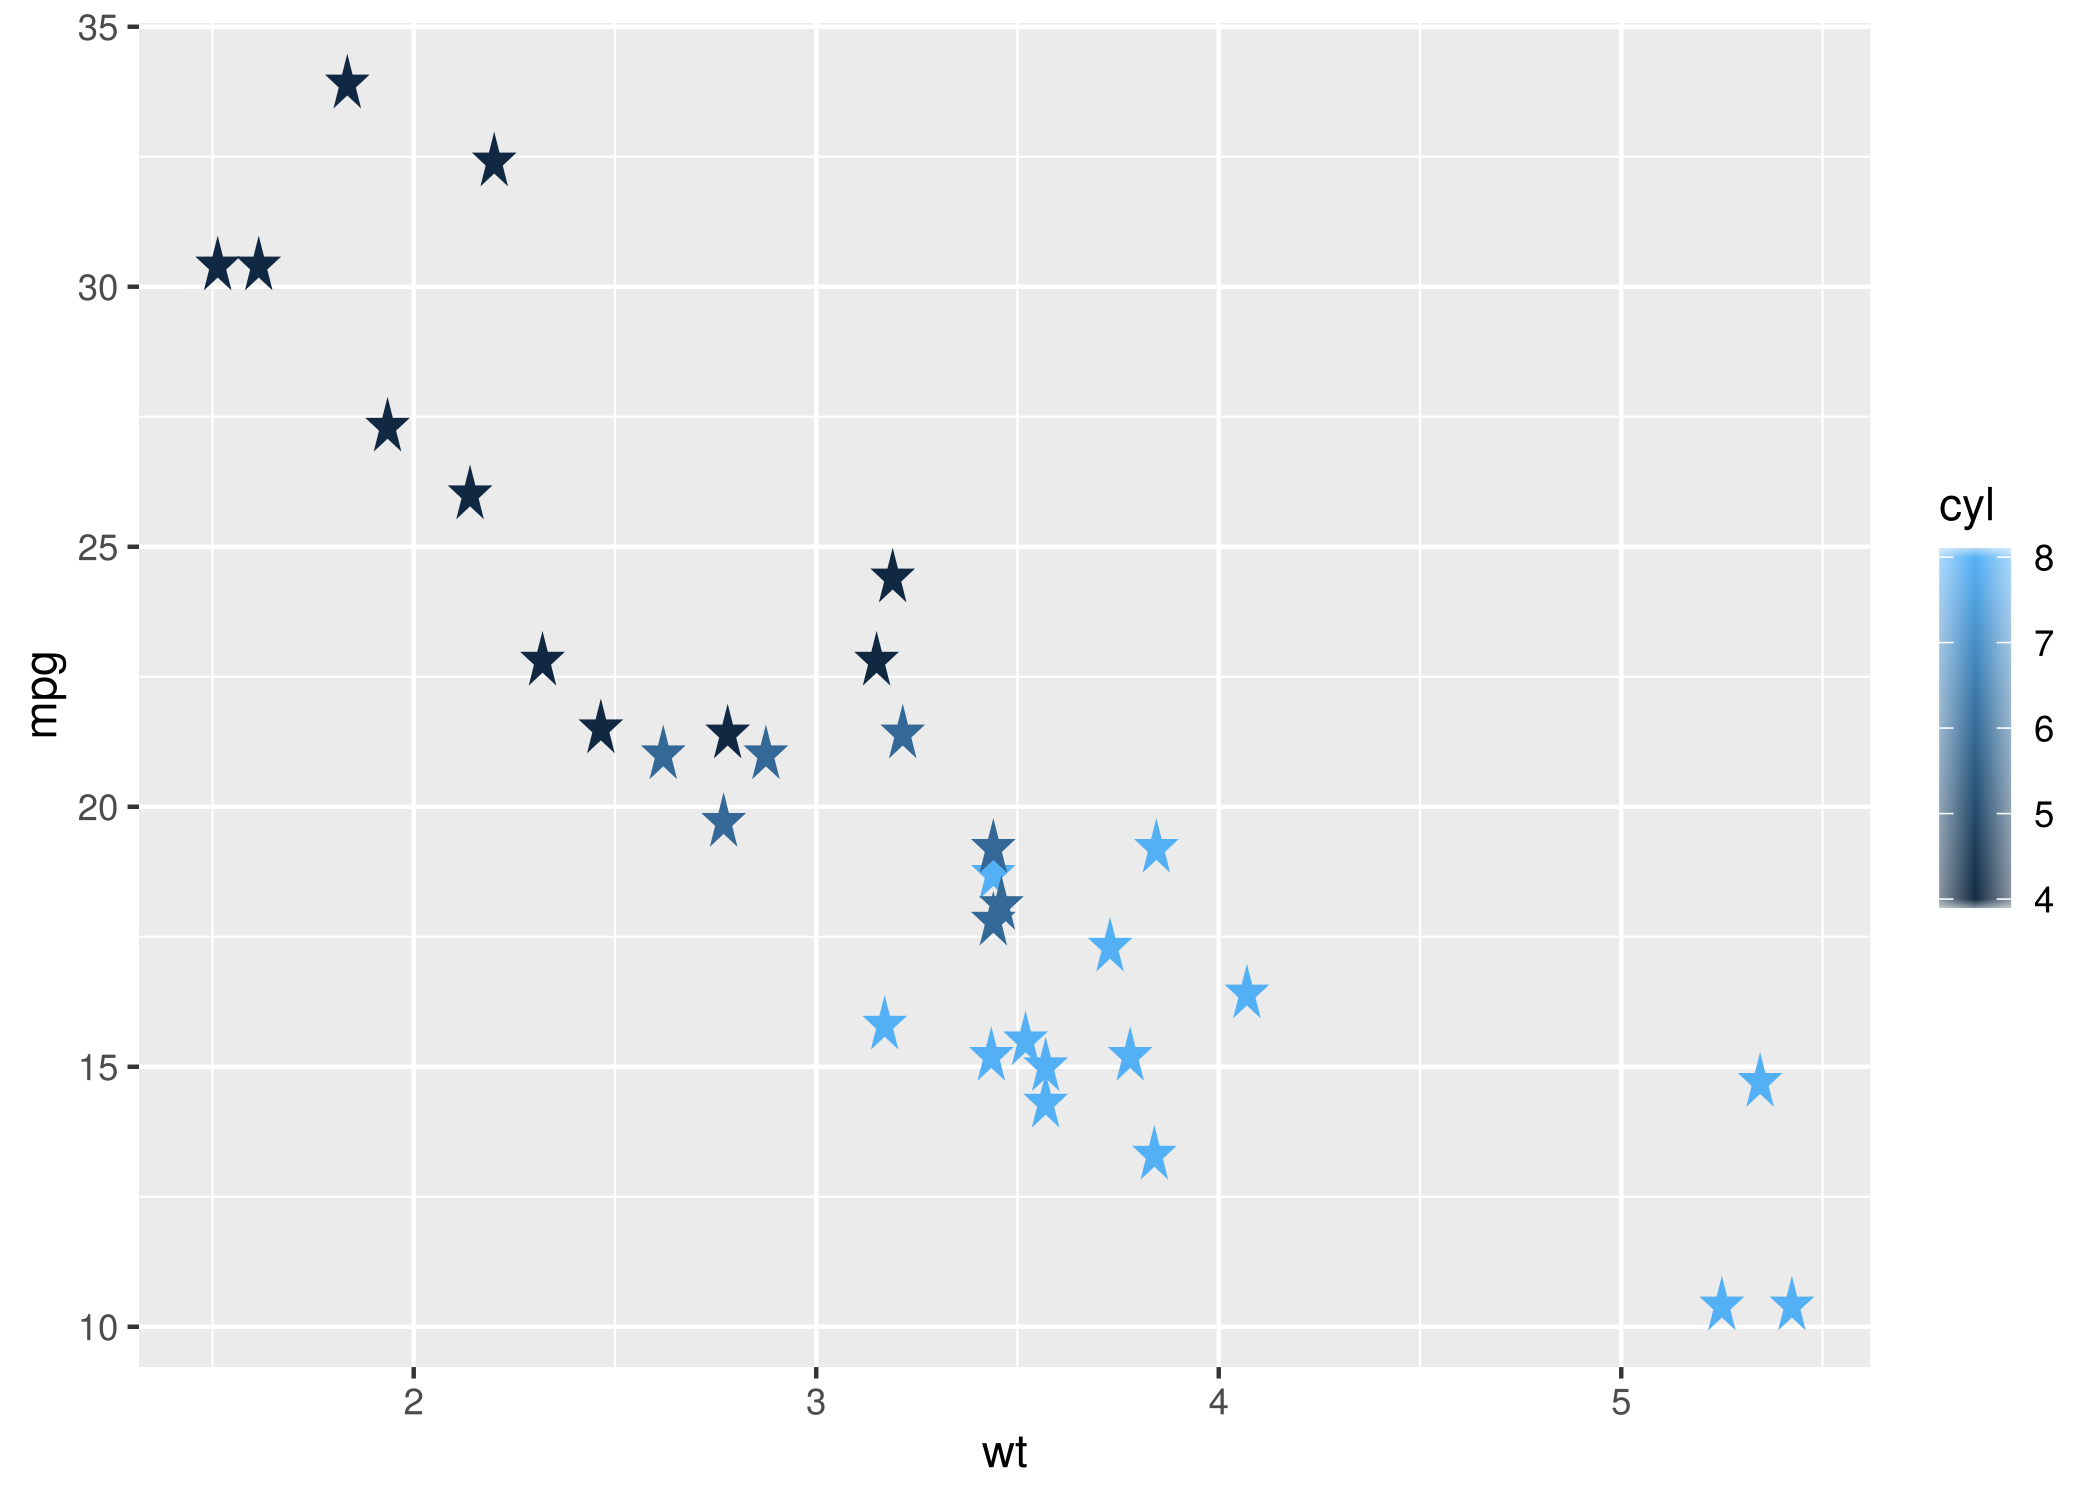
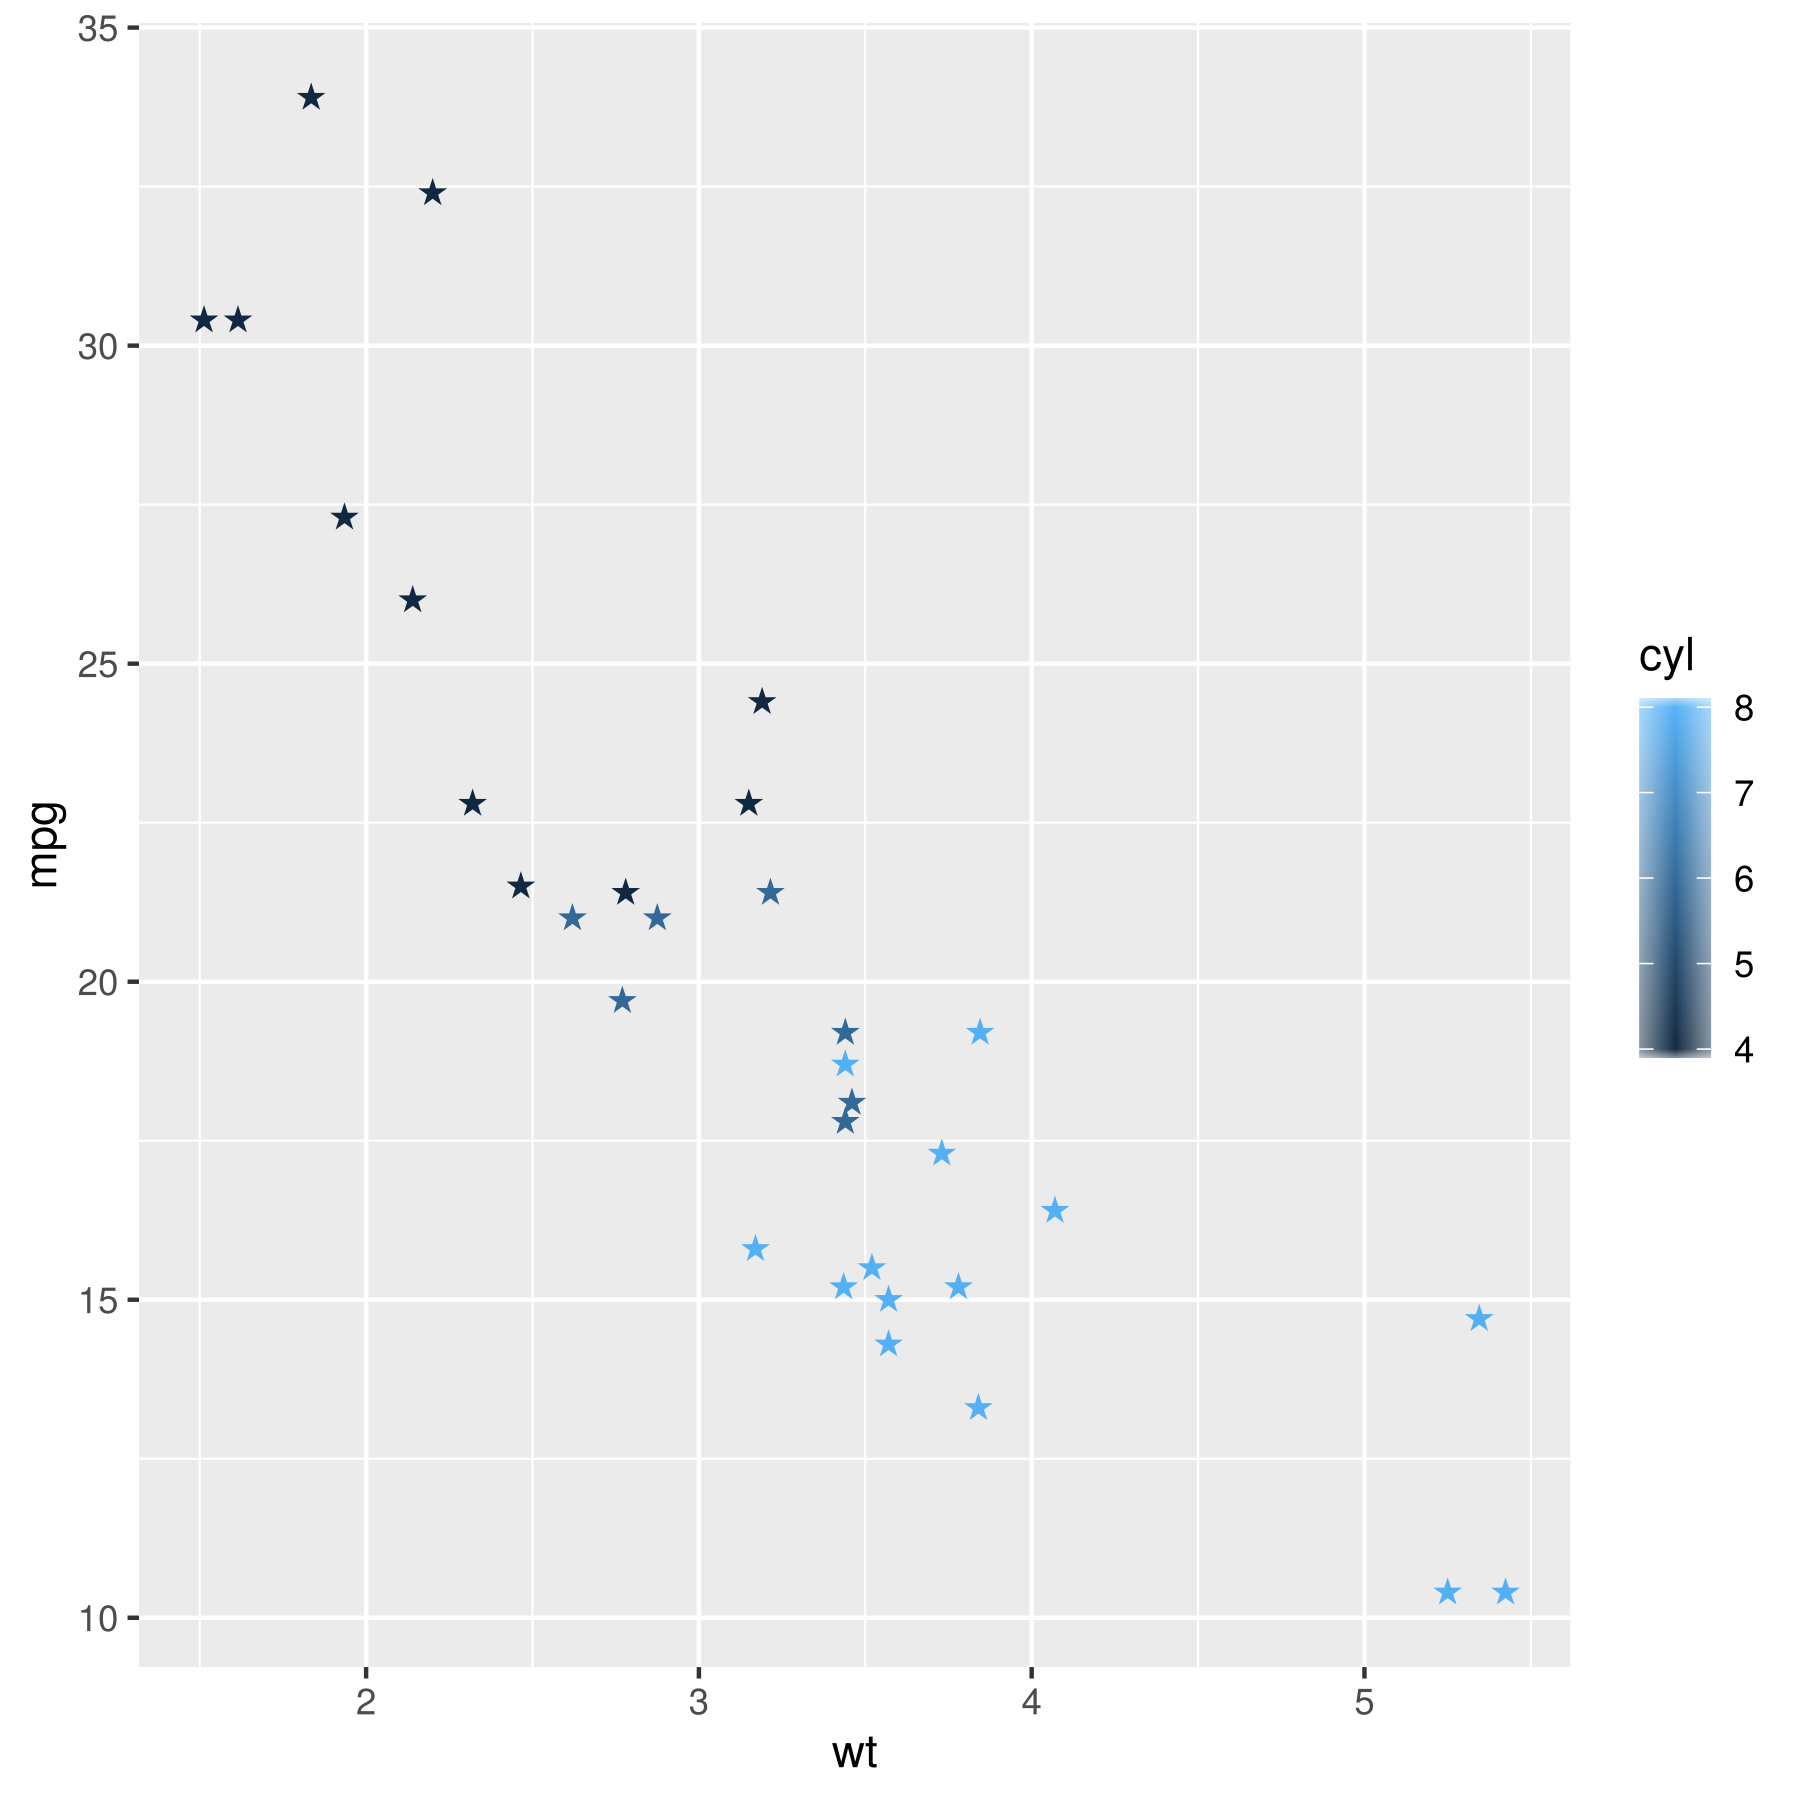
update README

diff --git a/README.md b/README.md
@@ -29,6 +29,8 @@ p <- ggplot(data=mtcars,
 p
 ```
 
+![](README_files/figure-gfm/mtcars-1.svg)<!-- -->
+
 ![](./inst/extdata/figure1.png)
 
 ``` r
@@ -39,5 +41,7 @@ p2 <- ggplot(data=iris,
      geom_star()
 p2
 ```
+
+![](README_files/figure-gfm/iris-1.svg)<!-- -->
 
 ![](./inst/extdata/figure2.png)
